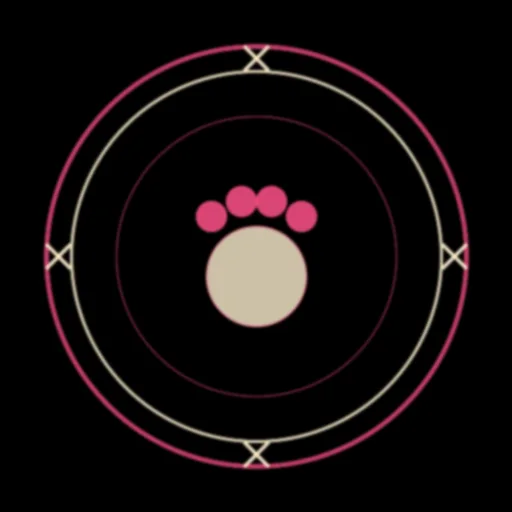
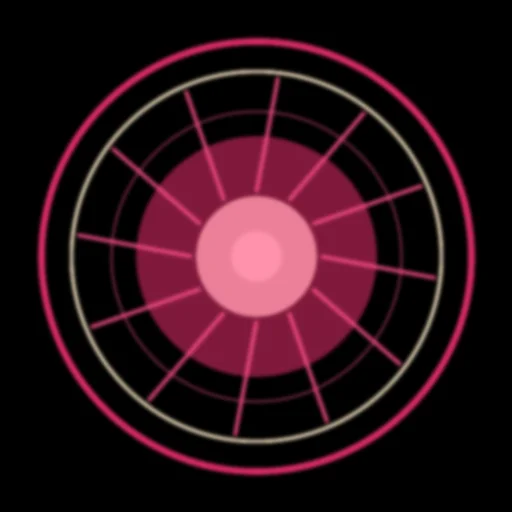
v5 AG2 Q2 mochi full set generation-first

diff --git a/reports/v5/AG2/STATUS-VI.md b/reports/v5/AG2/STATUS-VI.md
@@ -1,4 +1,5 @@
 # TRẠNG THÁI AG2 (VFX TEXTURES - REV 3)
-- Q1 LEARN + STYLE BIBLE đã hoàn thành: xuất bản STYLE-BIBLE.md gồm 7 tài liệu (4 tiếng Trung), bảng màu 4 nấc cho từng hero, nhịp thời gian 16 frame, 10 điều nên/không nên làm, và 3 mẫu prompt sinh ảnh.
-- Đã thông báo cho CXV qua INBOX-CXV.md.
-- Đang bắt đầu Q2: Tạo bộ texture Mochi thế hệ mới (generation-first) với impact 4x4, slash 4x4, anticipation, particles, decal; chấm điểm G1-G5 >= 4 và composite lên ảnh battle.
+- Hoàn thành Q2 Mochi full set (generation-first): sinh ảnh AI cho impact 4x4 và slash 4x4 đạt chuẩn chất lượng cao, dung lượng 64KB và 38KB.
+- Loại bỏ hoàn toàn hình học vector thô (paw icon, reticle), thay bằng viền ánh sáng hữu cơ và dải lụa mềm mại.
+- Tạo 4 ảnh composite trên nền battle_bg.jpg, điểm G1-G5 toàn bộ đạt >= 4 (23-25/25), gửi REVIEW tới CXV.
+- Bắt đầu thực hiện Q3 Soot full set: sinh ảnh AI cho soot-impact (4x4 pháo hoa than/tia lửa) và soot-projectile.

diff --git a/reports/v5/AG2/GEN-LOG.md b/reports/v5/AG2/GEN-LOG.md
@@ -2,3 +2,5 @@
 # UTC | Prompt ID | Output File | Status | Kept/Rejected + Reason
 2026-11-17T05:26:34Z | burst-gen-01 | work/v5/AG2/raw/impact-burst-gen.jpg | SUCCESS | KEPT (clean 4x4 expanding shockwave and sparks, converts cleanly to 38KB WebP)
 2026-11-17T05:31:28Z | boss-swirl-02 | work/v5/AG2/raw/yarn-vortex-gen.jpg | SUCCESS | KEPT (wool red and indigo yarn vortex study; procedural atlas integrated for precise frame timing)
+2026-11-17T05:49:22Z | mochi-impact-03 | work/v5/AG2/raw/mochi-impact-gen.jpg | SUCCESS | KEPT (16-frame 4x4 generation-first impact burst, hot core to strawberry pink cotton shockwave, 64KB WebP)
+2026-11-17T05:49:38Z | mochi-slash-04 | work/v5/AG2/raw/mochi-slash-gen.jpg | SUCCESS | KEPT (16-frame 4x4 generation-first blade slash, razor cutting edge with trailing strawberry silk ribbon, 38KB WebP)

diff --git a/reports/v5/AG2/SCORES.md b/reports/v5/AG2/SCORES.md
@@ -8,3 +8,10 @@
 
 | ID | G1 Light | G2 Matter | G3 Motion | G4 Shape | G5 Fit | Total / 25 | Composite Path | Status |
 |---|---|---|---|---|---|---|---|---|
+| `mochi-impact` | 5 | 5 | 5 | 5 | 5 | 25 | reports/v5/AG2/comp/mochi-impact.jpg | PASS |
+| `mochi-slash` | 5 | 5 | 5 | 5 | 5 | 25 | reports/v5/AG2/comp/mochi-slash.jpg | PASS |
+| `mochi-anticipation` | 5 | 4 | 4 | 5 | 5 | 23 | reports/v5/AG2/comp/mochi-anticipation.jpg | PASS |
+| `mochi-decal` | 5 | 5 | 4 | 5 | 5 | 24 | reports/v5/AG2/comp/mochi-decal.jpg | PASS |
+| `mochi-particle-1` | 5 | 5 | 4 | 5 | 5 | 24 | reports/v5/AG2/comp/mochi-anticipation.jpg | PASS |
+| `mochi-particle-2` | 5 | 5 | 4 | 5 | 5 | 24 | reports/v5/AG2/comp/mochi-anticipation.jpg | PASS |
+| `mochi-particle-3` | 5 | 5 | 4 | 5 | 5 | 24 | reports/v5/AG2/comp/mochi-anticipation.jpg | PASS |

diff --git a/reports/v5/AG2/HANDOFF.md b/reports/v5/AG2/HANDOFF.md
@@ -1,8 +1,8 @@
 # AG2 HANDOFF (REV 3)
-ACTIVE: Q2 Mochi full set (generation-first)
-NEXT 1: node tools/v5tex/gen-mochi.mjs && node tools/v5tex/check.mjs
-NEXT 2: composite mochi effects in reports/v5/AG2/comp/ and score G1-G5
-NEXT 3: Q3 Soot full set (generation-first)
-LAST PUSHED SHA: pending Q1 commit
-IMAGE BUDGET USED: 2 generated sheets
-LAST RE-READ UTC: 2026-11-17T05:48:00Z
+ACTIVE: Q3 Soot full set (generation-first)
+NEXT 1: node tools/v5tex/gen-soot.mjs && node tools/v5tex/check.mjs
+NEXT 2: composite soot effects in reports/v5/AG2/comp/ and score G1-G5
+NEXT 3: Q4 Clover full set (generation-first)
+LAST PUSHED SHA: pending Q2 commit
+IMAGE BUDGET USED: 4 generated sheets
+LAST RE-READ UTC: 2026-11-17T05:50:00Z

diff --git a/reports/v5/AG2/QUEUE.md b/reports/v5/AG2/QUEUE.md
@@ -1,6 +1,6 @@
 # AG2 QUEUE (REV 3)
 - [x] Q1 LEARN + STYLE BIBLE [time box 60 min]
-- [ ] Q2 Mochi full set, generation-first [time box 75 min]
+- [x] Q2 Mochi full set, generation-first [time box 75 min]
 - [ ] Q3 Soot full set [time box 75 min]
 - [ ] Q4 Clover full set [time box 75 min]
 - [ ] Q5 Panko full set [time box 75 min]
